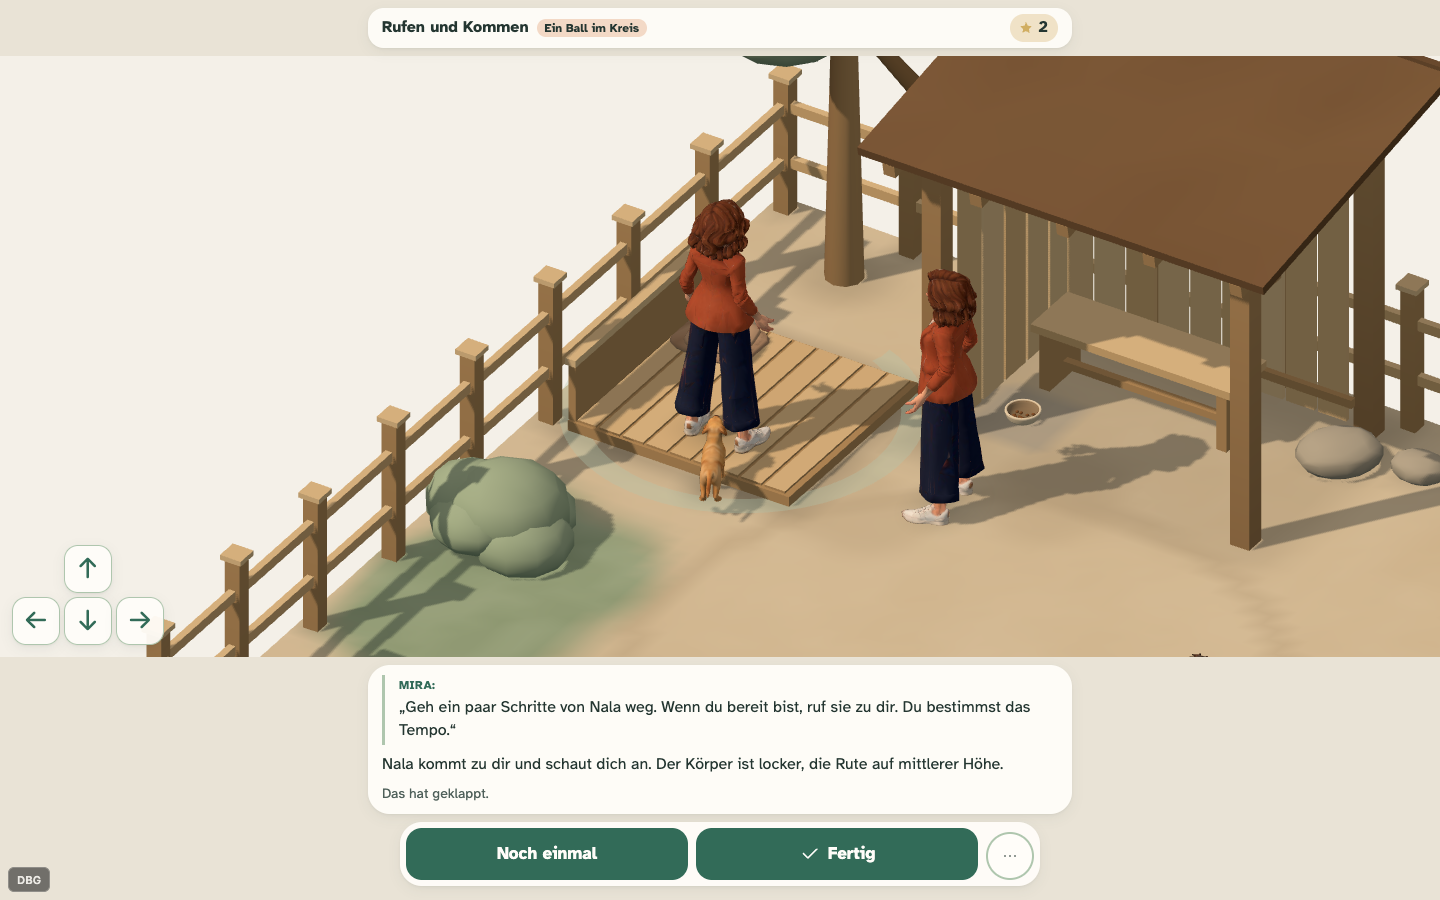
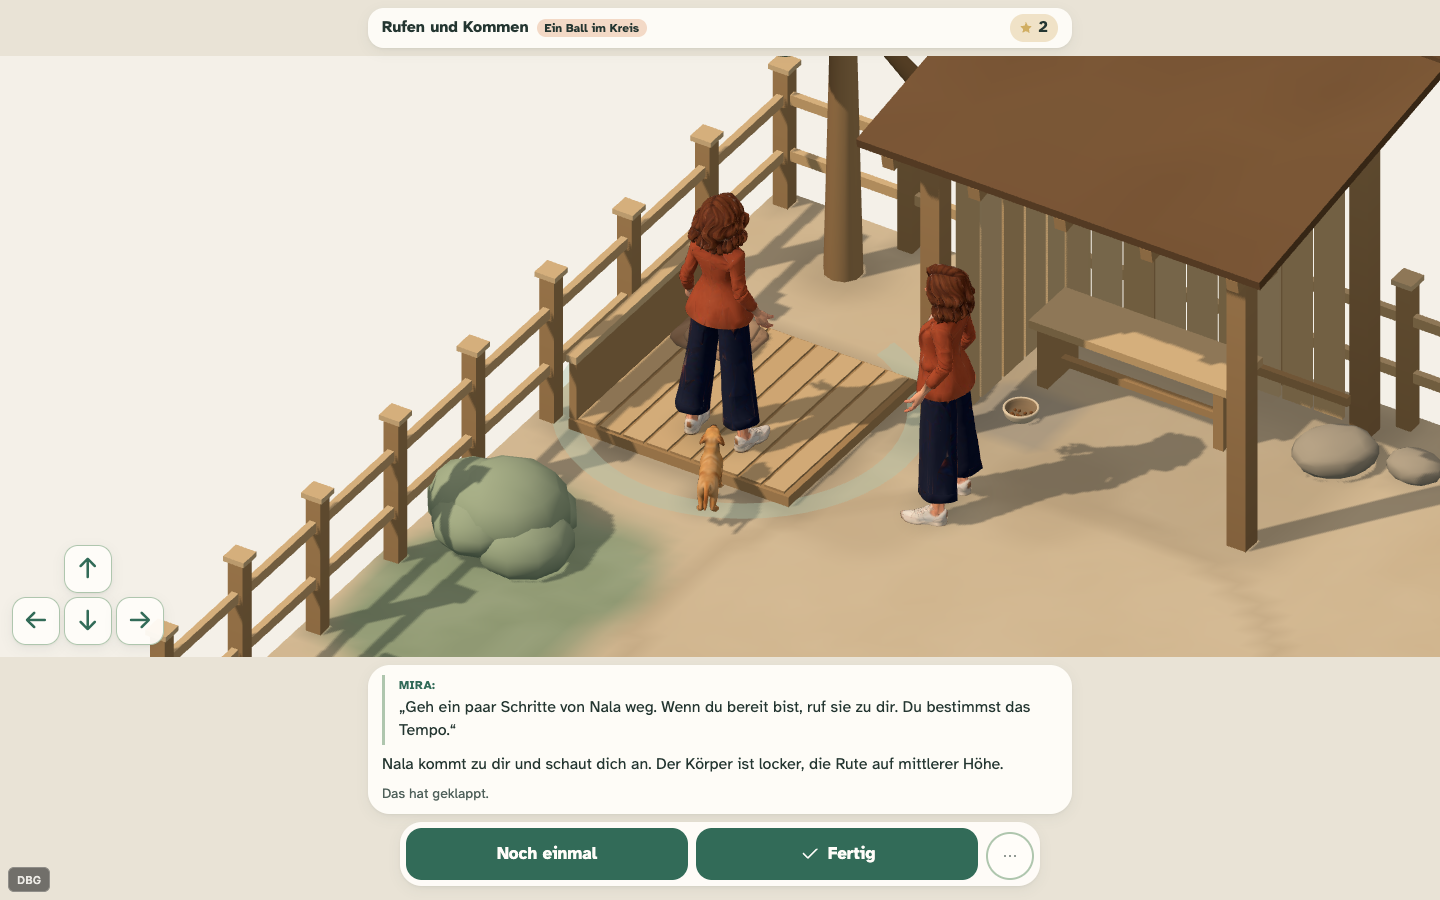
Record final mobile controls and exercise verification

diff --git a/verification/exercise-qa/REPORT.md b/verification/exercise-qa/REPORT.md
@@ -1,0 +1,25 @@
+# Übungen verification — 10 October 2026
+
+Verified the local application in installed Google Chrome, using isolated saves. Deterministic world positioning was used for exercise setup; exercise selection, attempts, choices, retries, completion, and navigation were driven through the player UI.
+
+## Issues fixed
+
+- Rest-place lesson framing could swing outside the courtyard as Nala changed between standing and lying, putting fence rails across her body. Edge lesson cameras now stay on the courtyard side. See `framing-L03_A-observe.png`, `framing-L03_A_rest.png`, `framing-L03_C_side.png`, and `framing-L01_A_corner.png`.
+- A resting dog near the foreground fence could be obscured during free practice. The yard camera now increases its elevation smoothly near the front/right boundary while preserving the viewing direction. See `framing-yard-rest-390.png` and `framing-yard-rest-844.png`.
+
+Regression coverage is in `tests/render/lessonFraming.test.ts`. Full lesson progression coverage is in `tests/e2e/exercises.spec.ts`. The repeatable animation/practice audit is `node scripts/verify-exercises.mjs`; it starts an isolated Vite server with hot reload disabled.
+
+## Verified coverage
+
+- All three lessons, all nine authored rounds, supported retries, inserted unaided repetitions, exercise response choices, care closure, reflection, reward confirmation, and reload persistence.
+- 40 observation/variant/decision animation cases for each growth stage: 80/80 expected settled poses, actual shipped GLBs, finite geometry, and no page errors. Measurements: `lesson-animation-arriving-after.json` and `lesson-animation-growing-after.json`. Contact sheets were captured during the original pose audit; the `framing-*` screenshots show the camera fixes afterward.
+- All three free Übungen — Rufen und Kommen, Eine ruhige Stelle finden, Auf einen Blick warten — with none/toy/other-dog distraction, at 390×844, 360×640 with reduced motion, and 1440×900: 27/27 combinations. Each includes an attempt, repeat, and exit. Tested successful responses and adverse toy/other-dog responses. Results: `results.json`; screenshots: `{width}-{kind}-{distraction}.png`.
+- Movement controls at 360×640, 390×844, 430×932, and 844×390, including press/release, cancellation, and hiding controls under sheets.
+- WebGL-unavailable text fallback, challenge save isolation, second-tab ownership, shipped model availability, and installed service-worker assets.
+- 308 unit/integration tests passed; three new framing regressions included. Four targeted yard renderer checks passed. Type checking, production build, and all asset checks passed.
+
+Final production browser run: **33/33 passed** across mobile-390, mobile-360, and desktop (3.6 minutes). See `final-browser/` for screenshots and the Playwright completion state.
+
+## Test environment
+
+The production browser run used a frozen copy of the final build on a dedicated preview port. Initial shared-preview failures were caused by an older build and concurrent rebuilds; the checks were repeated against the frozen build. Developer animation review used software WebGL where configured. These results cover local Chrome automation, not physical-device Safari testing or a deployment of the changes to the public site.
